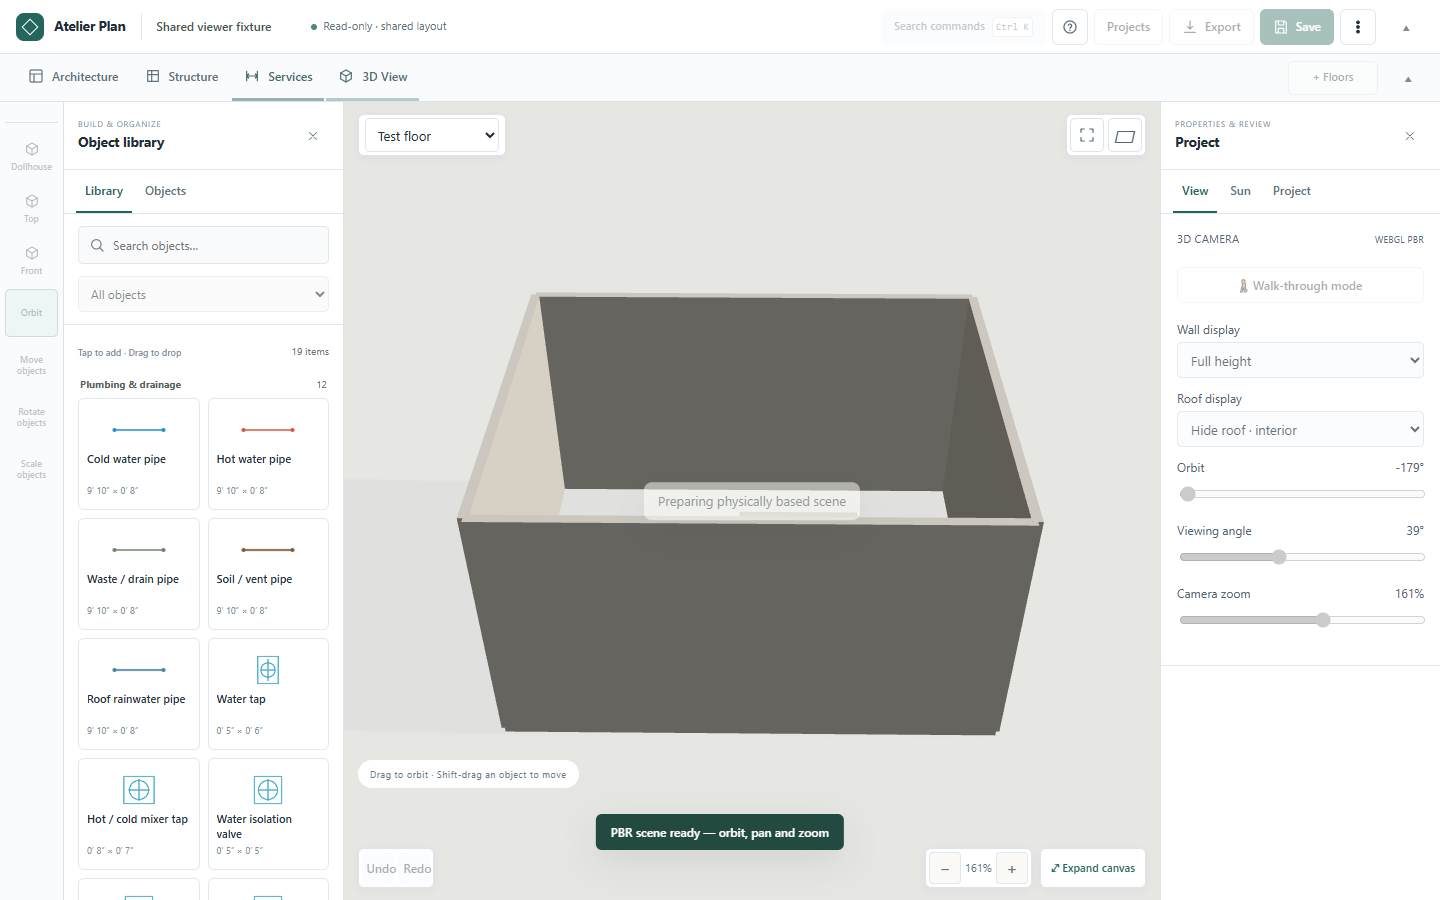
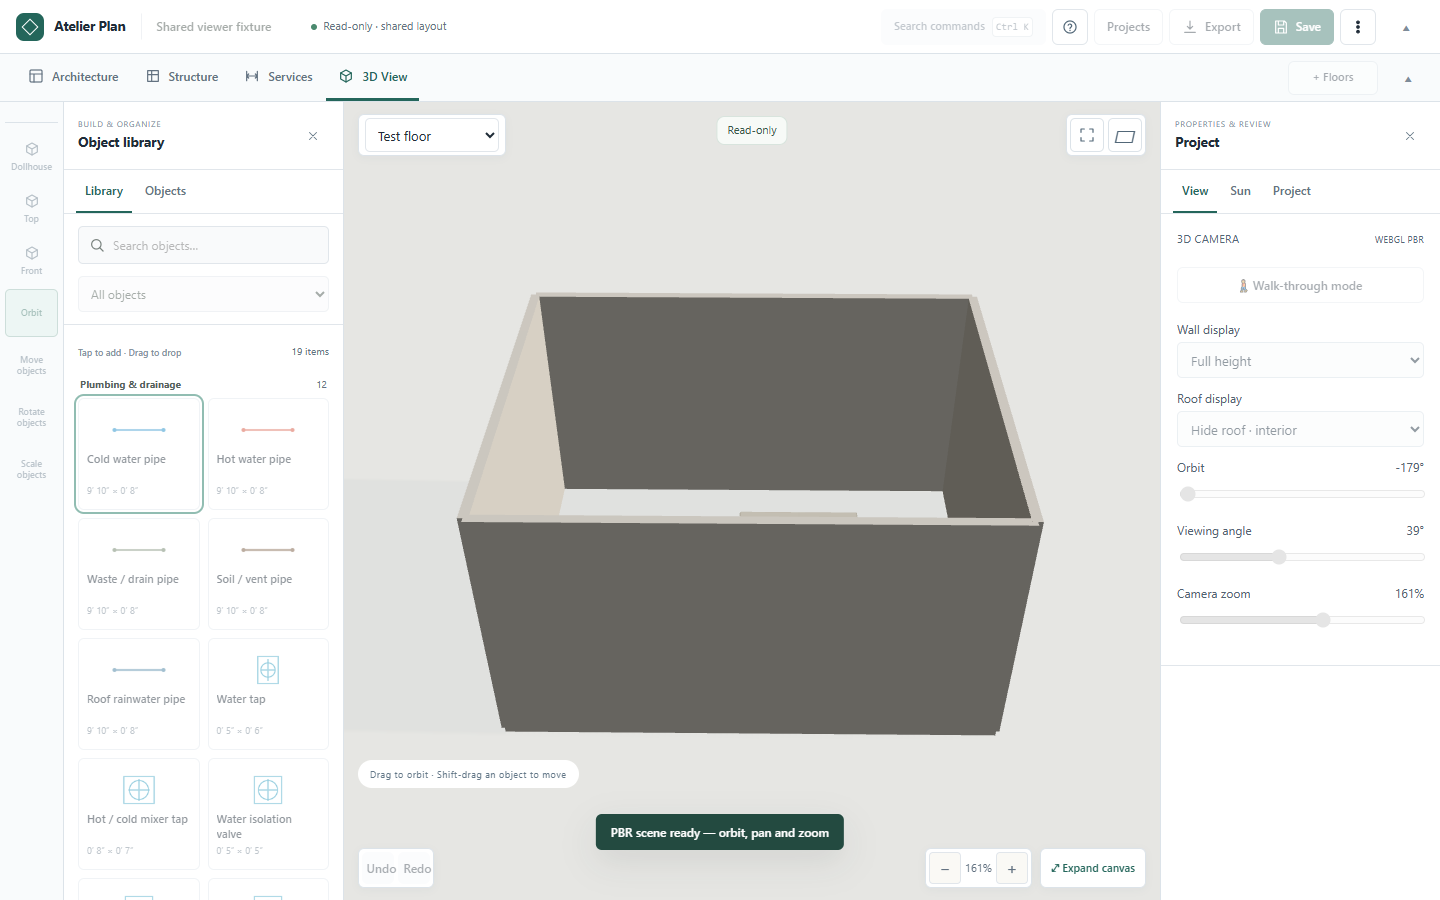
Block custom editing controls in read-only viewer

diff --git a/js/read-only.js b/js/read-only.js
@@ -22,33 +22,44 @@
     const oldTool=A.setTool;
     A.setTool=()=>oldTool('pan');
     A.setTool('pan');
+    document.body.classList.add('read-only');
+    const badge=document.createElement('div');
+    badge.className='read-only-status';badge.id='readOnlyStatus';badge.textContent='Read-only';
+    badge.setAttribute('role','status');document.querySelector('#stage').append(badge);
     // Explicit navigation allowlist: newly added editor controls default to disabled.
     const ids=new Set(['studioFloor','fitBtn','gridBtn','structureBtn','floorViewMode',
       'zoomIn','zoomOut','stageZoomIn','stageZoomOut','expandCanvas','helpBtn','menuHelp',
       'mobileMenuBtn','closeHelp','closeHelpHeader','closeCatalogBtn','closeInspectorBtn',
       'structInteriorToggle','drawingScale','exportSvgBtn','exportPdfBtn','printPlanBtn']);
-    function allowed(el){return ids.has(el.id)||el.id.startsWith('reveal-')||
-      el.matches('[data-view],[data-workspace],[data-sheet-tab],[data-nav],[data-library],.chrome-hide,[data-tool="pan"]');}
+    const controls='button,input,select,textarea,.switch,[role="button"],[role="switch"],[contenteditable="true"],[draggable]';
+    function allowed(el){return el instanceof Element&&(ids.has(el.id)||el.id.startsWith('reveal-')||
+      el.matches('[data-view],[data-workspace],[data-sheet-tab],[data-nav],[data-library],.chrome-hide,[data-tool="pan"]'));}
     function refresh(){
-      document.querySelectorAll('button,input,select,textarea').forEach(el=>{
-        if(!allowed(el)&&!el.disabled){el.disabled=true;el.dataset.viewerDisabled='true';}
+      document.querySelectorAll(controls).forEach(el=>{
+        if(allowed(el))return;
+        if('disabled' in el&&!el.disabled)el.disabled=true;
+        if(el.getAttribute('aria-disabled')!=='true')el.setAttribute('aria-disabled','true');
+        if(el.matches('.switch,[role="button"],[role="switch"]')&&el.tabIndex!==-1)el.tabIndex=-1;
+        if(el.isContentEditable)el.contentEditable='false';
       });
       document.querySelectorAll('[draggable="true"]').forEach(el=>el.draggable=false);
       const status=document.querySelector('#saveState');
       if(status&&status.textContent!=='Read-only · shared layout')status.textContent='Read-only · shared layout';
     }
     for(const type of ['pointerdown','click','input','change','dragstart','drop','dblclick'])document.addEventListener(type,event=>{
-      const control=event.target.closest('button,input,select,textarea,[draggable]');
+      const control=event.target.closest?.(controls);
       if(type==='drop'||(control&&!allowed(control))){event.preventDefault();event.stopImmediatePropagation();}
     },true);
     window.addEventListener('keydown',event=>{
       // Keep browser navigation, tab focus and viewer activation; block editor shortcuts.
+      if(event.target.matches?.('select')&&allowed(event.target))return;
       if(['Tab','Escape','Shift','Control','Alt','Meta'].includes(event.key)||
         (['Enter',' '].includes(event.key)&&allowed(event.target)))return;
       event.stopImmediatePropagation();
-      if(event.ctrlKey||event.metaKey||['Delete','Backspace','ArrowUp','ArrowDown','ArrowLeft','ArrowRight'].includes(event.key))event.preventDefault();
+      const editShortcut=(event.ctrlKey||event.metaKey)&&['z','y','v','x','d','s','o','n','k'].includes(event.key.toLowerCase());
+      if(editShortcut||['Enter',' ','Delete','Backspace','ArrowUp','ArrowDown','ArrowLeft','ArrowRight'].includes(event.key))event.preventDefault();
     },true);
-    new MutationObserver(refresh).observe(document.body,{childList:true,subtree:true});
+    new MutationObserver(refresh).observe(document.body,{childList:true,subtree:true,attributes:true,attributeFilter:['disabled','draggable','tabindex','contenteditable']});
     refresh();
   };
 })();

diff --git a/css/canvas-space.css b/css/canvas-space.css
@@ -151,6 +151,8 @@ body.studio.canvas-space .app[data-navigation-visible="false"] .workspace-naviga
 #floorModal .floor-delete-confirm[hidden] { display: none; }
 #floorModal .floor-delete-confirm p { margin-bottom: 8px; }
 #floorModal [data-floor-action="confirm-delete"] { color: #a13124; }
+.read-only [aria-disabled="true"] { opacity: .5; cursor: default; }
+.read-only-status { position: absolute; top: 14px; left: 50%; transform: translateX(-50%); z-index: 9; padding: 6px 10px; border: 1px solid #d8e4dd; border-radius: 8px; background: #f7faf7; color: #37564a; font-size: 11px; pointer-events: none; }
 @media (max-width: 480px) {
   #floorModal .modal { padding: 16px; }
   #floorModal .floor-manager-fields { grid-template-columns: 1fr; }

diff --git a/INDEX.md b/INDEX.md
@@ -96,6 +96,7 @@ Internal lengths are centimetres. Project fields include `name`, `projectId`, `u
 - Project settings opens from the Project property tab or command search in every workspace, including Structure. `site.frontSide` is an optional plan-edge key (`north`, `west`, `south`, `east`, or empty); compass rotation remains `north`. Canonical perimeter annotations are `site.sides[edge]` with `direction`, `measurement` (cm or null), `status`, `note`, `visible` and `showMeasurement`. Validation migrates root/site `sideLabels`, direct edge text/objects and `label`/numeric `length` aliases on a clone; existing canonical values take precedence. Missing site settings receive defaults. Canvas and SVG share annotation bounds for room, wall-only and empty-site plans. Metadata Apply actions validate first and create one undo entry; drafts create none.
 - Select objects, choose Copy to floor, then Copy at same position in Properties. `copySelectionToFloor` in `js/object-operations.js` preserves X/Y, dimensions, rotation and elevation relative to the destination floor; it includes required hosts/supports/anchors, remaps IDs, validates a cloned candidate and applies one undo action while retaining the source floor and selection. Clipboard paste/duplicate retain their existing offset behavior.
 - A `?test=1` URL uses an isolated storage prefix.
+- `?readonly=1` opens the bundled reference in a viewer; `&layout=path.json` loads a validated same-origin layout. Native controls, custom switches/catalog cards, gestures and shortcuts cannot edit the layout or local saves. A canvas badge identifies the viewer at all screen sizes. `js/read-only.js` defaults new controls to disabled; mark navigation through its explicit allowlist.
 - Service items store `system`, `mountSurface`, elevation, diameter and route points where applicable. Route vertices use centimetres relative to the floor; vertical distances contribute to length. Route Properties offers spatial scaling or footprint-only scaling that preserves all vertex elevations; diameter is unchanged in both. Choosing the scale mode is transient UI state, without history or persistence. They describe layout, without automatic hydraulic/electrical sizing or network connectivity.
 - `three-side-stairs` is a separate catalog type/shape, preserving existing straight/L/U stair behavior. Width/length are clear room dimensions and height is floor-to-floor rise. Optional `stairStartSide` (short/long), `stairHandedness` (left/right), `stairTargetRiser`, `stairLandingMin` and `stairWidth` receive defaults on normalization; validation checks their types/ranges. `threeSideStairLayout` derives equal risers/going, three flight counts, two level rectangular corner landings, plan parts and illustrative rails without mutating saved data. It searches 14–18 cm risers, 25–33 cm going, 60–65 cm for 2R+T and 3–12 risers/flight; these are comfort heuristics, not compliance. Inspector changes validate fit before one undo checkpoint; generic resize/scale can produce an infeasible layout, shown as an error while remaining saveable/recoverable. Start-side/mirror/size/rise changes recalculate plan, SVG and cached 3D. Upper-floor landing/opening, headroom, guards and local width review remain required; 3 ft is below the common 1 m dwelling benchmark. `tests/ui-preview.html` has an isolated stair fixture; importable examples and comparison drawing are in `deliverables/stair-11ft6-9ft6/`.
 - Three-sided stairs now reserve entrance/exit platforms inside the footprint (`stairPlatformLength`, default at least the clear flight width), reducing available runs and recalculating risers/going. Optional `stairUpperFloorId` links the exit to an existing/new higher floor; imported references are validated, copied floors/objects clear the old link, and floor-manager changes reconcile a feasible rise or disconnect. Connect/add upper floor and Continue to next floor are validated, single-undo actions; viewing arrivals is navigation. Continuation retains the flight direction and uses a full-width, 3-foot-deep upper bridge landing to connect arrival to the next entrance, avoiding opposing-flight headroom collisions. Tread/landing plates and riser faces are illustrative 3D geometry, not solid blocks extending down through the storey. Upper-floor plans/SVGs show a derived arrival platform and opening; renderer room finishes subtract the rotated opening from triangulated room polygons and retain the platform. These are architectural finish openings: explicit structural slab geometry/load proxies remain subject to manual opening design/review. The default 11′6″ × 9′6″ example with 3′ platforms fits 18 risers (7+4+7) at 6⅔″ with 11″ going for a long-side start, or 17 (5+7+5) at about 7.06″ with 10½″ going for a short-side start.

diff --git a/validation/RESULTS.md b/validation/RESULTS.md
@@ -153,3 +153,11 @@ Added `.nojekyll` and `PUBLISHING.md` for static branch/root publishing. `?reado
 Fresh verification: `node tests/regression.cjs` passed 14 groups plus script parsing. `node tests/read-only.cjs` ran the isolated browser suite (67 passed, zero failed), then passed viewer checks at 1440/820/390 px: shared JSON loading, disabled fields, keyboard edit attempts, canvas drags preserving floor geometry, empty undo history, local-save preservation, Architecture/Structure/Services/3D navigation, Expand/Restore via mouse and keyboard, touch Fit and missing-layout error. No engineering calculations changed, so engineering benchmarks were not rerun. Browser execution required permission to launch local Edge outside the sandbox.
 
 Plan captures at desktop/tablet/mobile were visually inspected; the existing initial pinned/overlay sheets remain present. Evidence: `read-only-plan-1440.png`, `read-only-plan-820.png`, `read-only-plan-390.png`, `read-only-1440.png`, `read-only-820.png`, `read-only-390.png`. `tests/ui-preview.html` captures: `publishing-ui-preview-1440.png`, `publishing-ui-preview-820.png`, `publishing-ui-preview-390.png`. `git diff --check` passed. GitHub deployment was not performed; no Git remote is configured.
+
+## 13 October 2026 — Read-only custom-control correction
+
+Reproduced on both `http://127.0.0.1:4173/?test=1&readonly=1` and the published `https://vidyanic.github.io/housecraft/?readonly=1`: the viewer flag and Pan mode were active, but clicking the custom Snap switch changed `project.snap`. The original viewer selector handled native controls and draggable cards, but missed div-based switches. The earlier tests did not exercise those controls.
+
+The policy now covers custom switches, role-based buttons and editable surfaces, marks them aria-disabled, removes custom editing controls from the tab sequence, and intercepts pointer/click/keyboard activation. Attribute changes that re-enable controls are repaired as well as newly rendered controls. A canvas Read-only badge stays visible at desktop/tablet/mobile sizes. Native floor-picker keyboard navigation and browser refresh remain available.
+
+Fresh verification: `node tests/regression.cjs` passed 14 groups and script parsing. `node tests/read-only.cjs` passed the 67-workflow browser suite and expanded viewer checks: bare readonly URL/reference loading, same-origin JSON loading, custom project and selected-object switches, catalog pointer/keyboard activation, protection after controls are re-enabled, no geometry/settings/history/local-save changes, keyboard floor navigation, all workspaces, Expand/Restore, touch Fit, and missing-layout errors. Zero page errors were recorded. Checks passed at 1440/820/390 px; updated `read-only-plan-*` captures were visually inspected, and `read-only-*` plus `publishing-ui-preview-*` captures were refreshed. Keyboard tests activate only controls that actually receive focus, preserving inert-sheet behavior. Camera/active-floor navigation is excluded from the immutable-layout comparison because it is permitted viewer state. `git diff --check` passed. Structural calculations were not changed and engineering benchmarks were not rerun for this correction.
